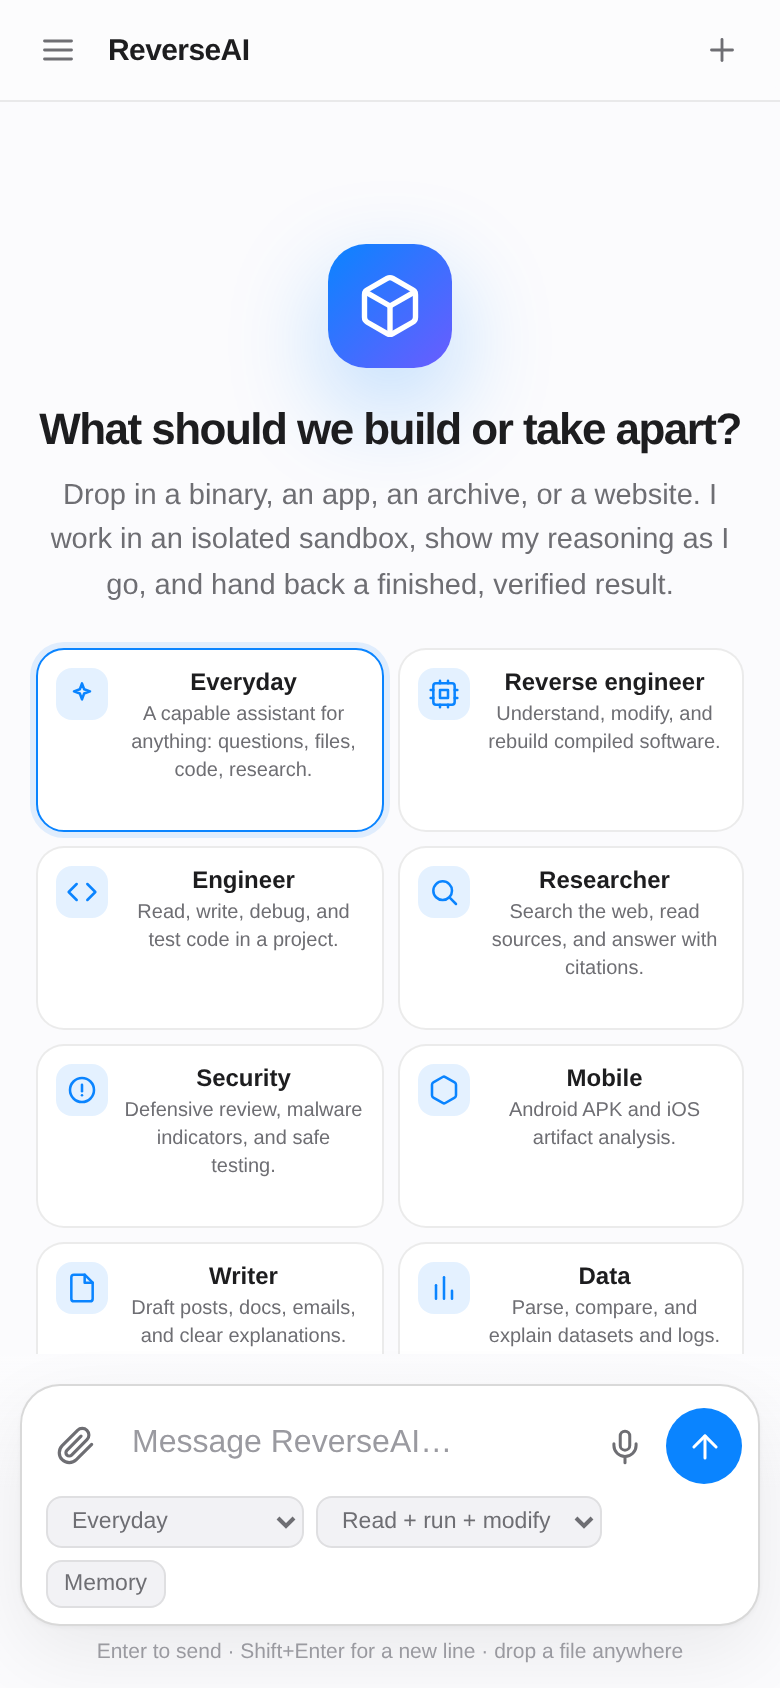
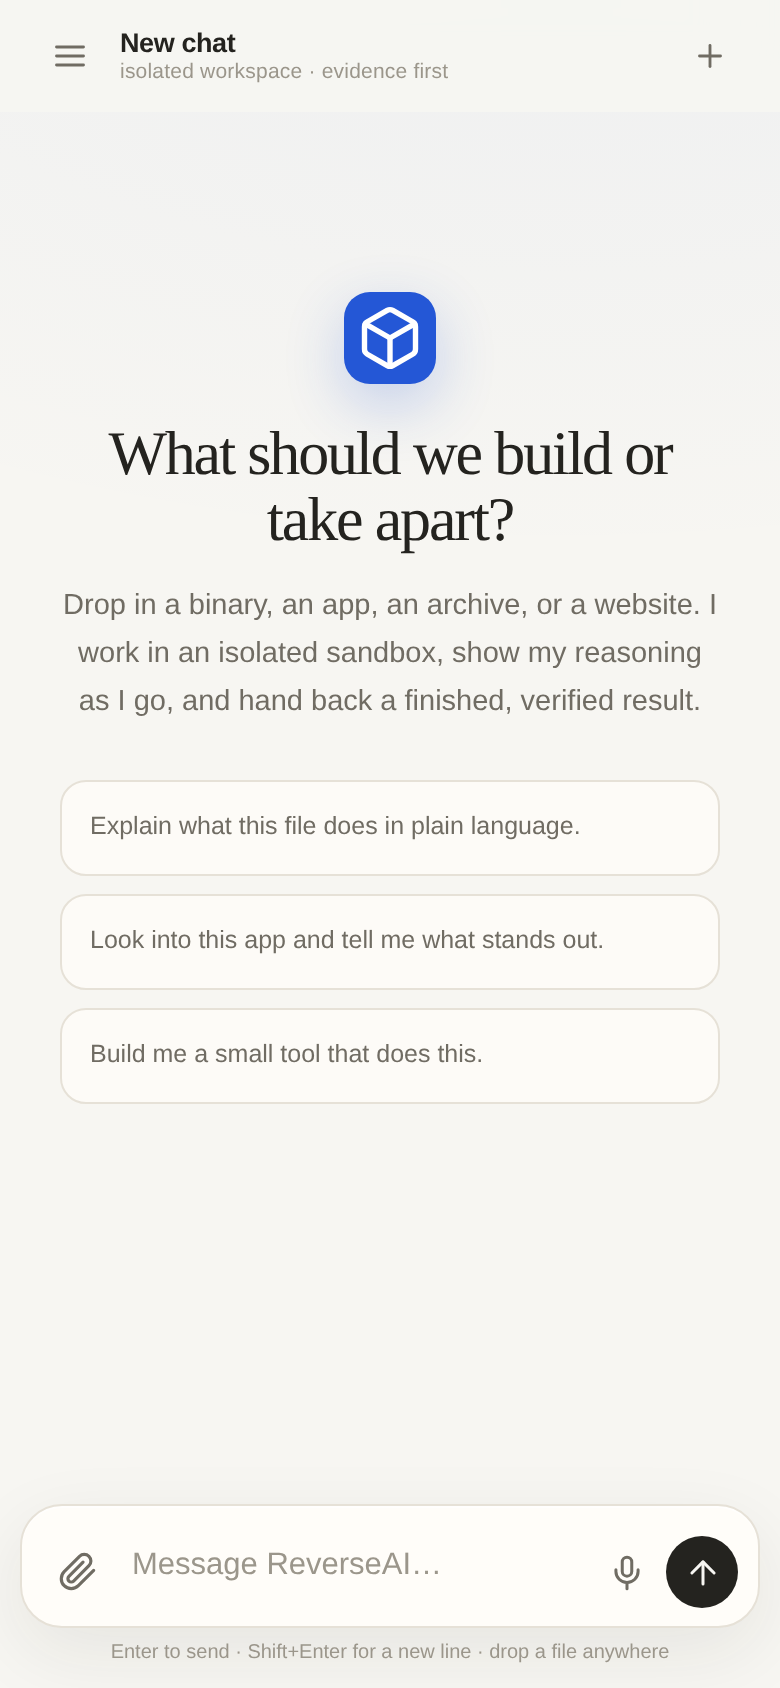
site: interactive surfaces and refreshed screenshots

diff --git a/index.html b/index.html
@@ -204,6 +204,16 @@ reverseai audit -> version, deps, assets, tool metadata, secrets
 reverseai repo / xrefs -> repository map and direct call graph</code></pre>
 </section>
 
+<section class="wrap">
+  <div class="kicker">Inside the chat</div>
+  <h2>Not just answers. Surfaces you can use.</h2>
+  <p class="sub">ReverseAI can create the interaction the work needs: a clarification question with real options, a form, a comparison table, a chart, a control-flow graph, a before/after diff, an approval card, a file drop zone, or a small sandboxed custom view. Every choice has an "Other" escape hatch. The surface answer becomes structured state, and the agent continues from it.</p>
+  <pre><code>create_surface -> question / form / table / chart / graph / diff
+               -> approval / file drop / custom view
+               -> structured response -> continue the same conversation</code></pre>
+  <p class="muted" style="font-size:12px;color:var(--dim);margin-top:11px">Generated views are validated, rendered from allowlisted components, and custom views run in an opaque-origin iframe with no network.</p>
+</section>
+
 <section id="how" class="wrap">
   <div class="kicker">The loop</div>
   <h2>Plan. Act. Observe. Prove.</h2>
